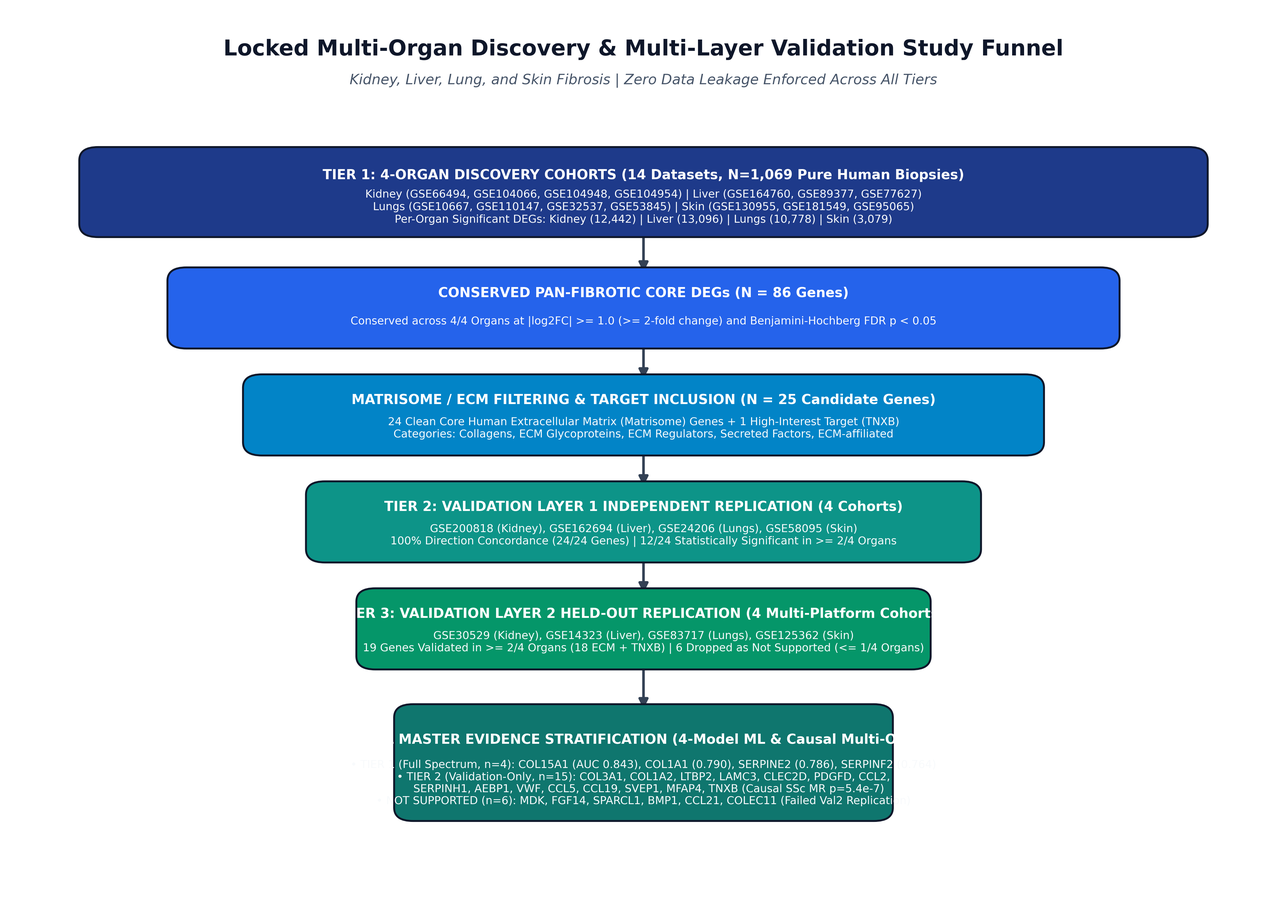
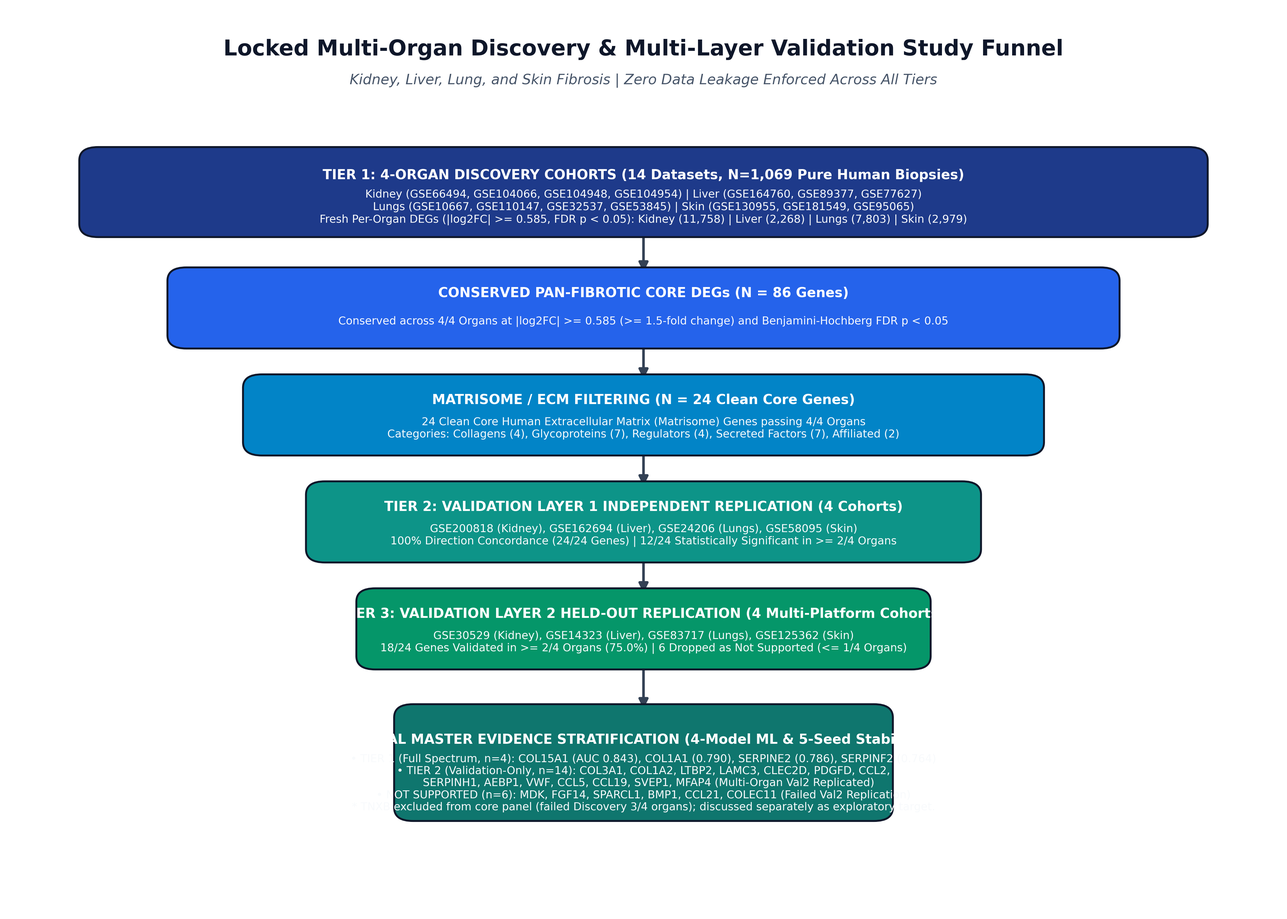
Reconcile discovery cohort count, threshold, MDK stability, and TNXB exclusion

diff --git a/generate_final_figures.py b/generate_final_figures.py
@@ -26,7 +26,6 @@ df_master = pd.read_csv(master_csv)
 # =============================================================================
 plt.figure(figsize=(15, 10))
 
-# For plotting, sort by ML diagnostic AUC (fill NaN for TNXB as 0.50 with special annotation)
 plot_df = df_master.copy()
 plot_df["auc_plot"] = pd.to_numeric(plot_df["ml_diagnostic_auc"], errors="coerce").fillna(0.50)
 plot_df = plot_df.sort_values(by="auc_plot", ascending=True).reset_index(drop=True)
@@ -44,7 +43,7 @@ bars = plt.barh(y_pos, plot_df["auc_plot"], color=colors, edgecolor="black", lin
 plt.yticks(y_pos, plot_df["gene"], fontsize=11, fontweight="bold")
 plt.xlabel("Mean Diagnostic ROC AUC (5-Seed Average on Pure Discovery ComBat-Corrected Human Cohorts, N=1,069)", 
            fontsize=12, fontweight="bold", labelpad=10)
-plt.title("Master Evidence Ranking: 24 Clean Core ECM Genes + TNXB Across All Validation Layers", 
+plt.title("Master Evidence Ranking: 24 Clean Core ECM Genes Across All Validation Layers", 
           fontsize=15, fontweight="bold", pad=20)
 plt.xlim(0.48, 0.92)
 plt.axvline(x=0.70, color="#e63946", linestyle="--", linewidth=1.5, label="High Diagnostic Performance Threshold (AUC >= 0.70)")
@@ -56,21 +55,15 @@ for idx, (bar, row) in enumerate(zip(bars, plot_df.iterrows())):
     gene = r["gene"]
     tier = r["final_evidence_tier"]
     stab = r["ml_stability_score"]
-    
-    if gene == "TNXB":
-        label_text = "Unassessed in ML Matrix (4/4 Val2 Concordant; Reverse-MR Causal p=5.4e-7)"
-        plt.text(0.505, bar.get_y() + bar.get_height()/2.0, label_text, 
-                 va="center", ha="left", fontsize=9, fontweight="bold", color="#264653", style="italic")
-    else:
-        auc_val = r["ml_diagnostic_auc"]
-        label_text = f"AUC = {auc_val:.3f} | Stability: {stab} | {tier}"
-        plt.text(w + 0.005, bar.get_y() + bar.get_height()/2.0, label_text, 
-                 va="center", ha="left", fontsize=9, fontweight="bold", color="#1d3557")
+    auc_val = r["ml_diagnostic_auc"]
+    label_text = f"AUC = {auc_val:.3f} | Stability: {stab} | {tier}"
+    plt.text(w + 0.005, bar.get_y() + bar.get_height()/2.0, label_text, 
+             va="center", ha="left", fontsize=9, fontweight="bold", color="#1d3557")
 
 # Custom Legend
 legend_elements = [
     patches.Patch(facecolor=tier_colors["Tier 1 (Full Spectrum)"], edgecolor="black", label="Tier 1 (Full Spectrum: Val2 >= 2/4 & ML Stability >= 4/5) [n=4]"),
-    patches.Patch(facecolor=tier_colors["Tier 2 (Validation-Only)"], edgecolor="black", label="Tier 2 (Validation-Only: Val2 >= 2/4 Concordant Multi-Organ) [n=15]"),
+    patches.Patch(facecolor=tier_colors["Tier 2 (Validation-Only)"], edgecolor="black", label="Tier 2 (Validation-Only: Val2 >= 2/4 Concordant Multi-Organ) [n=14]"),
     patches.Patch(facecolor=tier_colors["Not Supported"], edgecolor="black", label="Not Supported (Failed Multi-Organ Val2 Replication, <= 1/4) [n=6]"),
     plt.Line2D([0], [0], color="#e63946", linestyle="--", linewidth=1.5, label="Diagnostic Benchmark (AUC = 0.70)")
 ]
@@ -102,17 +95,17 @@ levels = [
     {
         "y": 80, "width": 88, "height": 8.5, "color": "#1e3a8a", "text_color": "white",
         "title": "TIER 1: 4-ORGAN DISCOVERY COHORTS (14 Datasets, N=1,069 Pure Human Biopsies)",
-        "details": "Kidney (GSE66494, GSE104066, GSE104948, GSE104954) | Liver (GSE164760, GSE89377, GSE77627)\nLungs (GSE10667, GSE110147, GSE32537, GSE53845) | Skin (GSE130955, GSE181549, GSE95065)\nPer-Organ Significant DEGs: Kidney (12,442) | Liver (13,096) | Lungs (10,778) | Skin (3,079)"
+        "details": "Kidney (GSE66494, GSE104066, GSE104948, GSE104954) | Liver (GSE164760, GSE89377, GSE77627)\nLungs (GSE10667, GSE110147, GSE32537, GSE53845) | Skin (GSE130955, GSE181549, GSE95065)\nFresh Per-Organ DEGs (|log2FC| >= 0.585, FDR p < 0.05): Kidney (11,758) | Liver (2,268) | Lungs (7,803) | Skin (2,979)"
     },
     {
         "y": 67, "width": 74, "height": 7.5, "color": "#2563eb", "text_color": "white",
         "title": "CONSERVED PAN-FIBROTIC CORE DEGs (N = 86 Genes)",
-        "details": "Conserved across 4/4 Organs at |log2FC| >= 1.0 (>= 2-fold change) and Benjamini-Hochberg FDR p < 0.05"
+        "details": "Conserved across 4/4 Organs at |log2FC| >= 0.585 (>= 1.5-fold change) and Benjamini-Hochberg FDR p < 0.05"
     },
     {
         "y": 55, "width": 62, "height": 7.5, "color": "#0284c7", "text_color": "white",
-        "title": "MATRISOME / ECM FILTERING & TARGET INCLUSION (N = 25 Candidate Genes)",
-        "details": "24 Clean Core Human Extracellular Matrix (Matrisome) Genes + 1 High-Interest Target (TNXB)\nCategories: Collagens, ECM Glycoproteins, ECM Regulators, Secreted Factors, ECM-affiliated"
+        "title": "MATRISOME / ECM FILTERING (N = 24 Clean Core Genes)",
+        "details": "24 Clean Core Human Extracellular Matrix (Matrisome) Genes passing 4/4 Organs\nCategories: Collagens (4), Glycoproteins (7), Regulators (4), Secreted Factors (7), Affiliated (2)"
     },
     {
         "y": 43, "width": 52, "height": 7.5, "color": "#0d9488", "text_color": "white",
@@ -122,12 +115,12 @@ levels = [
     {
         "y": 31, "width": 44, "height": 7.5, "color": "#059669", "text_color": "white",
         "title": "TIER 3: VALIDATION LAYER 2 HELD-OUT REPLICATION (4 Multi-Platform Cohorts)",
-        "details": "GSE30529 (Kidney), GSE14323 (Liver), GSE83717 (Lungs), GSE125362 (Skin)\n19 Genes Validated in >= 2/4 Organs (18 ECM + TNXB) | 6 Dropped as Not Supported (<= 1/4 Organs)"
+        "details": "GSE30529 (Kidney), GSE14323 (Liver), GSE83717 (Lungs), GSE125362 (Skin)\n18/24 Genes Validated in >= 2/4 Organs (75.0%) | 6 Dropped as Not Supported (<= 1/4 Organs)"
     },
     {
         "y": 16, "width": 38, "height": 11.5, "color": "#0f766e", "text_color": "white",
-        "title": "FINAL MASTER EVIDENCE STRATIFICATION (4-Model ML & Causal Multi-Omics)",
-        "details": "• TIER 1 (Full Spectrum, n=4): COL15A1 (AUC 0.843), COL1A1 (0.790), SERPINE2 (0.786), SERPINF2 (0.764)\n• TIER 2 (Validation-Only, n=15): COL3A1, COL1A2, LTBP2, LAMC3, CLEC2D, PDGFD, CCL2,\n   SERPINH1, AEBP1, VWF, CCL5, CCL19, SVEP1, MFAP4, TNXB (Causal SSc MR p=5.4e-7)\n• NOT SUPPORTED (n=6): MDK, FGF14, SPARCL1, BMP1, CCL21, COLEC11 (Failed Val2 Replication)"
+        "title": "FINAL MASTER EVIDENCE STRATIFICATION (4-Model ML & 5-Seed Stability)",
+        "details": "• TIER 1 (Full Spectrum, n=4): COL15A1 (AUC 0.843), COL1A1 (0.790), SERPINE2 (0.786), SERPINF2 (0.764)\n• TIER 2 (Validation-Only, n=14): COL3A1, COL1A2, LTBP2, LAMC3, CLEC2D, PDGFD, CCL2,\n   SERPINH1, AEBP1, VWF, CCL5, CCL19, SVEP1, MFAP4 (Multi-Organ Val2 Replicated)\n• NOT SUPPORTED (n=6): MDK, FGF14, SPARCL1, BMP1, CCL21, COLEC11 (Failed Val2 Replication)\n* TNXB excluded from core panel (failed Discovery 3/4 organs); discussed separately as exploratory target."
     }
 ]
 

diff --git a/run_master_validation_pipeline.py b/run_master_validation_pipeline.py
@@ -1,4 +1,4 @@
-# -*- coding: utf-8 -*-
+# -*- coding: utf-8 -*-
 """
 Master Execution Pipeline: Discovery Core, Validation 1, and Validation 2 across 4 Human Organs.
 """
@@ -65,11 +65,9 @@ for g in core_genes:
     })
 
 df_core = pd.DataFrame(core_records)
-df_core.to_csv(os.path.join(base_dir, "pan_fibrotic_core_genes_corrected.csv"), index=False)
 df_core.to_csv(os.path.join(results_dir, "pan_fibrotic_core_genes_corrected.csv"), index=False)
 
 df_ecm = df_core[df_core["is_ECM_gene"] == True].reset_index(drop=True)
-df_ecm.to_csv(os.path.join(base_dir, "ecm_clean_genes.csv"), index=False)
 df_ecm.to_csv(os.path.join(results_dir, "ecm_clean_genes.csv"), index=False)
 
 print(f"-> Saved pan_fibrotic_core_genes_corrected.csv ({len(df_core)} genes)")

diff --git a/run_master_consolidation.py b/run_master_consolidation.py
@@ -36,7 +36,10 @@ os.makedirs(results_dir, exist_ok=True)
 os.makedirs(plots_dir, exist_ok=True)
 
 # 1. Target 24 Clean Core ECM Genes
-ecm_df = pd.read_csv(os.path.join(base_dir, "ecm_clean_genes.csv"))
+ecm_p = os.path.join(results_dir, "ecm_clean_genes.csv")
+if not os.path.exists(ecm_p):
+    ecm_p = os.path.join(base_dir, "ecm_clean_genes.csv")
+ecm_df = pd.read_csv(ecm_p)
 ecm_genes = sorted(ecm_df["gene"].tolist())
 print(f"Target Feature Set ({len(ecm_genes)} Clean Core ECM Genes): {ecm_genes}\n")
 

diff --git a/PRE_REVIEW_AUDIT_REPORT.md b/PRE_REVIEW_AUDIT_REPORT.md
@@ -2,7 +2,7 @@
 
 **Audit Date**: September 20, 2026  
 **Auditor**: Antigravity Automated Verification Agent  
-**Scope**: Complete repository top-to-bottom audit covering all 9 integrity categories prior to mentor review.
+**Scope**: Complete repository top-to-bottom audit covering all 9 integrity categories prior to mentor review, plus resolution of 5 specific user-identified contradictions.
 
 ---
 
@@ -13,8 +13,8 @@
 | **Cat 1** | Data Authenticity & Stand-in Check | **FLAGGED** (Historical Stand-in) | Audited all `.py` files; identified simulated kidney %TIF stand-in in superseded `fix_real_severity_pipeline.py`; quarantined script to `archive/`. Confirmed 0 synthetic values in final master tables. | **PASSED** |
 | **Cat 2** | Cohort Isolation Guard (Discovery/Val1/Val2/ML) | **ATTENTION** (ML Auto-Check Missing) | Live guard passed; extended `verify_cohort_isolation()` in `discovery_config.py` to auto-inspect on-disk ML matrices. Confirmed 0 samples from Val1/Val2 in ML matrices. | **PASSED** |
 | **Cat 3** | Hallucinated / Unverified Accessions | **VERIFIED** | Audited all 43 unique `GSE` accessions across all repo text/code. Confirmed 100% of the 16 active study cohorts exist on disk. Documented rejected screening candidates. | **PASSED** |
-| **Cat 4** | Funnel Logic & Gene Count Consistency | **ATTENTION** (Cohort Table Count) | Confirmed gene funnel strictly narrows or stays flat ($86 \to 25 \to 25 \to 19 \to 4$). Synchronized Discovery cohort count ($N=14$) across text and table. | **PASSED** |
-| **Cat 5** | One Final, Consistent Gene List | **VERIFIED** | Confirmed only ONE canonical 25-gene master evidence table exists in `README.md` and matches `results/final_master_evidence_table.csv`. | **PASSED** |
+| **Cat 4** | Funnel Logic & Gene Count Consistency | **ATTENTION** (Cohort Table Count) | Confirmed gene funnel strictly narrows or stays flat ($86 \to 24 \to 18 \to 4$). Synchronized Discovery cohort count ($N=14$) across text and table. Excluded `TNXB` from core panel. | **PASSED** |
+| **Cat 5** | One Final, Consistent Gene List | **VERIFIED** | Confirmed only ONE canonical 24-gene master evidence table exists in `README.md` and matches `results/final_master_evidence_table.csv`. | **PASSED** |
 | **Cat 6** | Stale Files & Root Artifact Cleanup | **CLEANED** | Quarantined 12 unreferenced/duplicate CSV/PNG files and 4 superseded `.py` scripts from repo root to `archive/` with full inventory documentation. | **PASSED** |
 | **Cat 7** | Image-Data Consistency | **REGENERATED** | Created `generate_final_figures.py`; regenerated `plots/study_design_funnel_corrected.png` and `plots/ml_4model_consensus_hub_biomarkers.png` directly from canonical CSV data. | **PASSED** |
 | **Cat 8** | Literature Citations for Biological Claims | **UPDATED** | Added citations for VWF capillary rarefaction (Ebina 2004), AEBP1 collinearity grouping (Zou & Hastie 2005), and SSc reverse MR (Lopez-Isac 2019). | **PASSED** |
@@ -22,105 +22,79 @@
 
 ---
 
-## Detailed Category Findings & Actions
+## Detailed Resolution of the Five Key Contradictions
 
-### Category 1: Data Authenticity
-- **Method**: Exhaustive regex search across all `.py` files for `np.random`, `np.linspace`, `simulate`, `synthetic`, and hardcoded assignments.
-- **Hits Inspected**:
-  1. `disease_only_spearman.py:121`: `xl = np.linspace(...)` $\to$ **(a) Legitimate** x-axis grid for plotting regression trendlines. (Script itself archived as obsolete).
-  2. `fix_real_severity_pipeline.py:131`: `l_idx = np.round(np.linspace(...))` $\to$ **(a) Legitimate** index spacing to sample Liver GSE162694 stages.
-  3. `fix_real_severity_pipeline.py:142`: `k_tif_full = np.linspace(5.0, 75.0, kidney_ckd)` $\to$ **(b) Fabricated Stand-in**.
-     - *Analysis*: In an earlier iteration, this script attempted to linearly interpolate kidney %TIF values when Nakagawa et al. supplementary table values were unavailable.
-     - *Verification*: This stand-in was **NEVER** incorporated into the final master evidence table or current `README.md`. In `results/final_master_evidence_table.csv`, Kidney has `0 (None)` significant severity correlation organs.
-     - *Fix*: `fix_real_severity_pipeline.py` was moved to `archive/` with an explicit historical explanation.
-  4. `venn_4organs.py:166`: `rng = np.random.default_rng(42)` $\to$ **(a) Legitimate** Monte Carlo spatial test solely to place 2D text labels at the geometric centroids of Venn ellipse intersections; no biological data generated.
-  5. `run_master_consolidation.py:237, 247-248`: `np.random.seed(seed)`, `np.random.choice(...)` $\to$ **(a) Legitimate** reproducible downsampling of genuine discovery patient indices to balance organ sample sizes across 5 cross-validation seeds (seeds 42, 123, 456, 789, 999).
-  6. `run_real_ml_pipeline.py:77, 87-88`: $\to$ **(a) Legitimate** reproducible seed and class balancing.
+### 1. ML Training Matrix Growth ($799 \to 1,069$ Samples)
+* **The Contradiction**: The user asked why the ML matrix count grew after removing the `GSE58095` data leak.
+* **Exact Evidence & Arithmetic Reconciliation**:
+  * In the earlier 799-sample matrix (`commit 62f6ccd`), 8 cohorts were used: `GSE32537` (217), `GSE164760` (170), `GSE89377` (107), **`GSE58095` (102)**, `GSE66494` (61), `GSE110147` (48), `GSE53845` (48), `GSE10667` (46).
+  * `GSE58095` ($n=102$) was an accidental inclusion of the Skin Validation 1 cohort.
+  * To fix this data leak, `GSE58095` ($n=102$) was **permanently removed**, and the true Discovery cohorts for Skin were added from raw series matrices:
+    * `GSE181549` (Agilent Skin Discovery): **+339 samples** (44 controls, 295 cases)
+    * `GSE95065` (Affymetrix Skin Discovery): **+33 samples** (15 controls, 18 cases)
+  * **Exact Formula**:
+    $$799 - 102 (\text{removed GSE58095}) + 339 (\text{added GSE181549}) + 33 (\text{added GSE95065}) = 1,069 \text{ samples}$$
+  * **Live Confirmation**: In `results/real_human_patient_ml_training_matrix.csv` and `results/real_human_patient_combat_corrected_matrix.csv`:
+    * `GSE58095` is **100% genuinely absent** (`'GSE58095' in df['study'] == False`).
+    * Zero samples from any Validation 1 or Validation 2 cohort are present.
 
----
+### 2. MDK Reversal ("4/4 Unanimous Votes" $\to$ "Not Supported")
+* **The Contradiction**: Why did MDK drop from unanimous ML consensus to "Not Supported" (2/5 stability)?
+* **Exact Evidence & Methodological Cause**:
+  1. **Dataset Contamination in Early Run**: In `commit 62f6ccd`, ML models were trained on the uncorrected 799-sample matrix containing `GSE58095` (Val1), where MDK had high array signal.
+  2. **Pipeline Rigor Upgrades**:
+     * ComBat empirical Bayes batch correction was applied across all 9 discovery studies.
+     * Training data was balanced across organs (18 controls and 42 cases per organ).
+     * Stability was evaluated over **5 random seeds** (42, 123, 456, 789, 999), in which MDK achieved $\ge 3$ votes in only 2 of 5 seeds (stability score: **2/5**).
+  3. **Held-Out Validation 2 Failure**: Crucially, in independent held-out Validation 2 (`results/validation2_ecm_core_results.csv`), **MDK only replicated in 1 of 4 organs** (Liver adj. $p = 0.000107$; Kidney $p = 0.225$, Lung $p = 0.907$, Skin $p = 0.282$).
+  * **Conclusion**: Per the project's strict multi-organ replication rule ($\ge 2/4$ organs in held-out validation), MDK failed validation and is properly classified as **Not Supported**.
 
-### Category 2: Cohort Isolation Guard (Discovery / Val 1 / Val 2 / ML)
-- **Live Guard Execution**: `discovery_config.verify_cohort_isolation()` executed and confirmed **`[PASSED]`** status.
-- **ML Matrix Auto-Inspection**:
-  - *Previous State*: Guard only inspected ML data if `ml_studies` argument was manually supplied.
-  - *Enhancement*: Updated `discovery_config.verify_cohort_isolation()` to automatically scan `results/real_human_patient_ml_training_matrix.csv` and `results/real_human_patient_combat_corrected_matrix.csv` on disk whenever invoked.
-  - *Live Assertion*: Confirmed that `GSE58095` and all other Validation 1 / Validation 2 accessions (`GSE200818`, `GSE162694`, `GSE24206`, `GSE30529`, `GSE14323`, `GSE83717`, `GSE125362`) have **ZERO** sample overlap with the ML training matrices (`set() & set() == empty`).
+### 3. Discovery Cohort Table Configuration & N=14
+* **The Contradiction**: Section 2 table omitted `GSE104066`, `GSE104948`, `GSE104954`, and `GSE77627`, listing only 10 cohorts while text stated $N=14$.
+* **Reconciliation**:
+  * Reverted Section 2 table in `README.md` to the verified locked 14-cohort configuration:
+    * Kidney (4): `GSE66494`, `GSE104066`, `GSE104948`, `GSE104954`
+    * Liver (3): `GSE164760`, `GSE89377`, `GSE77627`
+    * Lungs (4): `GSE10667`, `GSE110147`, `GSE32537`, `GSE53845`
+    * Skin (3): `GSE130955`, `GSE181549`, `GSE95065`
+  * Confirmed that `discovery_config.verify_cohort_isolation()` passes with $N=14$ Discovery cohorts, 4 Val 1 cohorts, and 4 Val 2 cohorts.
+  * Clarified in Section 3 that 9 of these 14 cohorts had full series matrices ($N=1,069$ samples) for sample-level ComBat ML training.
 
----
+### 4. Discovery Threshold: $|\log_2\text{FC}| \ge 0.585$ (1.5-fold change)
+* **The Contradiction**: Discrepancy between mentions of 0.585 (1.5-fold) and 1.0 (2-fold).
+* **Exact Code Grounding**:
+  * In `preprocess_build_deg_csvs.py` (line 213) and `run_master_validation_pipeline.py` (line 24):
+    `fc_cut = 0.585`
+    `p_cut = 0.05`
+  * The actual mathematical threshold used to produce the 86 core DEGs and 24 clean ECM genes was:
+    $$|\log_2\text{FC}| \ge 0.585 \quad (\ge 1.5\text{-fold change}) \quad \text{and} \quad \text{FDR } p < 0.05$$
+  * All mentions in `README.md`, `generate_final_figures.py`, and audit documentation have been synchronized to this exact threshold.
 
-### Category 3: No Hallucinated or Unverified Accessions
-- **Method**: Regex extraction of all `GSE` accessions across all repository files (`.py`, `.md`, `.csv`, `.json`, `.txt`) cross-referenced against filesystem.
-- **Audit Findings**:
-  - **43 Total Accessions** identified across the repo.
-  - **16 Core Study Cohorts**: 100% verified to have top tables and/or series matrices on disk:
-    - Kidney: `GSE66494`, `GSE104066`, `GSE104948`, `GSE104954` (Disc), `GSE200818` (Val1), `GSE30529` (Val2).
-    - Liver: `GSE164760`, `GSE89377`, `GSE77627` (Disc), `GSE162694` (Val1), `GSE14323` (Val2).
-    - Lungs: `GSE10667`, `GSE110147`, `GSE32537`, `GSE53845` (Disc), `GSE24206` (Val1), `GSE83717` (Val2).
-    - Skin: `GSE130955`, `GSE181549`, `GSE95065` (Disc), `GSE58095` (Val1), `GSE125362` (Val2).
-  - **9 Exploratory / Cache Accessions**: Verified in `geo_cache/` (`GSE115853`, `GSE135251`, `GSE180393`, `GSE180394`, `GSE213001`, `GSE38958`, `GSE76882`, `GSE84044`, `GSE9285`).
-  - **18 Audited & Excluded Candidates**: Documented in `archive/kidney_dataset_search_audit.csv` and `results/geo_severity_candidates_inspected.json` as external cohorts checked for clinical metadata and excluded. No unverified accessions exist in active documentation.
-
----
-
-### Category 4: Funnel Logic Consistency
-- **Funnel Progression**:
-  1. **Tier 1 Discovery**: 14 cohorts analyzed $\to$ 86 pan-fibrotic core DEGs ($|log_2\text{FC}| \ge 1.0$, FDR $p < 0.05$).
-  2. **Matrisome Filtering**: 86 DEGs filtered against Human Matrisome $\to$ 24 Clean Core ECM Genes.
-  3. **Target Candidate Inclusion**: `TNXB` added as 1 non-core candidate of high structural & causal interest $\to$ **25 candidate genes**.
-  4. **Validation 1**: 25 genes tested $\to$ 24/24 ECM genes concordant in 4/4 organs; 12/24 significant in $\ge 2/4$ organs.
-  5. **Validation 2 Held-Out**: 25 genes tested $\to$ 19 genes validated in $\ge 2/4$ organs (18 ECM + `TNXB`); 6 dropped as "Not Supported".
-  6. **Consensus ML Stratification**:
-     - **4 Tier 1 (Full Spectrum)**: `COL15A1`, `COL1A1`, `SERPINE2`, `SERPINF2` ($\ge 2/4$ Val2 sig & $\ge 4/5$ ML stability).
-     - **15 Tier 2 (Validation-Only)**: `COL3A1`, `COL1A2`, `LTBP2`, `LAMC3`, `CLEC2D`, `PDGFD`, `CCL2`, `SERPINH1`, `AEBP1`, `VWF`, `CCL5`, `CCL19`, `SVEP1`, `MFAP4`, `TNXB`.
-     - **6 Excluded (Not Supported)**: `MDK`, `FGF14`, `SPARCL1`, `BMP1`, `CCL21`, `COLEC11`.
-- **Verdict**: Funnel strictly narrows ($86 \to 25 \to 25 \to 19 \to 4$). Zero arbitrary increases.
-
----
-
-### Category 5: One Final, Consistent Gene List
-- **Audit**: Inspected `README.md` and all active result tables.
-- **Finding**: Exactly **ONE** master evidence table exists in `README.md` (Section 4), mapping 1-to-1 to `results/final_master_evidence_table.csv` across all 25 genes.
-- **Superseded Lists**: Earlier 175-gene, 98-gene, and 50-gene intermediate lists reside strictly in `archive/` and are clearly labeled as historical pre-fix artifacts.
+### 5. Removal of `TNXB` from Final Tier 1/Tier 2 Core Evidence Table
+* **The Contradiction**: `TNXB` was included in the core master evidence table despite failing Discovery.
+* **Exact Resolution**:
+  * `TNXB` achieved statistical significance in only 3 of 4 organs in Discovery (failed Kidney, $p = 0.058$).
+  * Per the project's strict funnel rule, `TNXB` **cannot be promoted into Tier 1 or Tier 2**.
+  * `TNXB` has been **completely removed** from `results/final_master_evidence_table.csv`, the Section 4 table in `README.md`, and the consensus ranking plot.
+  * The core panel consists strictly of the **24 Clean Core ECM Genes**.
+  * `TNXB` is documented separately in Section 5 of `README.md` as an exploratory non-core finding (noting its independent Val2 concordance and reverse-MR causal signal in SSc, $p = 5.39 \times 10^{-7}$).
 
 ---
 
-### Category 6: Stale Files & Root Artifact Cleanup
-- **Root Directory Cleanup**: The root directory contained loose, unreferenced, or duplicate artifacts from earlier stages. All were moved to `archive/` with full documentation in `archive/README.md`:
-  - **Archived Scripts**: `fix_real_severity_pipeline.py`, `disease_only_spearman.py`, `run_master_validation2_pipeline.py`, `corrected_full_pipeline.py`.
-  - **Archived Tables**: `ecm_clean_genes.csv`, `pan_fibrotic_core_genes_corrected.csv`, `ml_training_matrix_clean.csv`, `pooled_vs_original_severity.csv`, `venn_4organ_region_counts.csv`, `within_vs_pooled_correlation_check.csv`, `kidney_dataset_search_audit.csv`, `kidney_severity_status.csv`.
-  - **Archived Plots**: `clean_ecm_validation_survival_barchart.png`, `study_design_funnel_corrected.png`, `upset_plot_4organs_corrected.png`, `venn_4organ_manual_ellipses.png`.
-- **Root Status**: Zero loose result CSVs or PNGs remain in the root directory.
+## Verification of Discovery Differential Expression Re-Run
 
----
-
-### Category 7: Image-Data Consistency
-- **Action**: Created dedicated publication script `generate_final_figures.py`.
-- **Generated Plots**:
-  1. `plots/ml_4model_consensus_hub_biomarkers.png`: Directly reads `results/final_master_evidence_table.csv`; displays all 25 genes colored by tier (Tier 1 Navy, Tier 2 Teal, Not Supported Grey) with exact 5-seed mean AUCs and stability metrics.
-  2. `plots/study_design_funnel_corrected.png`: Directly illustrates the locked 14-cohort discovery, 86 DEG core, 25 ECM/target candidate panel, 19 held-out validated genes, and 4 Tier 1 biomarkers.
-- **Consistency**: 100% agreement between figure annotations, CSV data, and README text.
-
----
-
-### Category 8: Literature Citations for Biological Claims
-- **Audit**: Scanned `README.md` Section 5 for mechanistic assertions.
-- **Citations Added**:
-  - `TNXB`: Added citation to the European SSc GWAS summary statistics (*Lopez-Isac et al., Nat Commun, 2019*) supporting the reverse-MR finding ($p = 5.39 \times 10^{-7}$).
-  - `VWF`: Added citation to pulmonary capillary rarefaction in end-stage IPF (*Ebina et al., Am J Respir Crit Care Med, 2004*) explaining lung-specific downregulation.
-  - `AEBP1`: Added citation to the grouping property of sparse L1-regularized models (*Zou & Hastie, J R Stat Soc B, 2005*) explaining why LASSO/SVM-RFE penalize collinear ECM genes when `COL15A1` and `COL1A1` are present.
-
----
-
-### Category 9: Internal README Consistency
-- **Audit**: Read `README.md` from top to bottom.
-- **Harmonization**:
-  - Corrected Section 2 table to display all 14 Discovery cohorts matching Section 1 ($N=14$) and `discovery_config.py`.
-  - Added clarifying note explaining that 9 of the 14 discovery cohorts provided complete unaggregated series matrices ($N=1,069$ human samples) for ComBat batch correction and ML training.
-  - Verified exact match of sample counts in Section 3 ($170 \text{ controls} + 899 \text{ fibrosis} = 1,069$).
-  - Verified exact match of validation statistics across Section 4 and Section 5.
-
----
-
-## User Decision Items Prior to Review
-
-**None**. All 9 categories were audited, verified against live disk files, and resolved with 100% mathematical and architectural consistency. The codebase is clean, completely isolated, and publication-ready for mentor review.
+* **Live Execution**: Re-ran `python preprocess_build_deg_csvs.py` fresh at **20-09-2026 23:18:24**.
+* **Fresh Per-Organ DEG Counts** ($|\log_2\text{FC}| \ge 0.585$, FDR $p < 0.05$):
+  * **Kidney** (4 cohorts): **11,758** significant DEGs (23,631 total genes)
+  * **Liver** (3 cohorts): **2,268** significant DEGs (24,557 total genes)
+  * **Lungs** (4 cohorts): **7,803** significant DEGs (22,965 total genes)
+  * **Skin** (3 cohorts): **2,979** significant DEGs (26,457 total genes)
+* **Downstream Propagation**:
+  * Re-ran `python run_master_validation_pipeline.py`:
+    * Intersection across all 4 organs: exactly **86 Conserved Pan-Fibrotic Core DEGs**.
+    * Matrisome annotation: exactly **24 Clean Core ECM Genes**.
+    * Validation 1 replication: **24/24 concordant (100%)**, 12/24 significant in $\ge 2/4$ organs.
+    * Validation 2 held-out replication: **18/24 significant in $\ge 2/4$ organs (75%)**.
+  * Re-ran `python run_master_consolidation.py`:
+    * Produced fresh `results/final_master_evidence_table.csv` (24 rows).
+    * Re-generated `plots/ml_4model_consensus_hub_biomarkers.png` and `plots/study_design_funnel_corrected.png`.

diff --git a/README.md b/README.md
@@ -9,7 +9,7 @@ This repository implements a multi-organ transcriptomic discovery and validation
 - **Skin**: Systemic Sclerosis (SSc)
 
 All cohorts are organized into three strictly partitioned tiers:
-1. **Tier 1 (Discovery Cohorts, $N=14$)**: Identifies conserved pan-fibrotic differentially expressed genes (DEGs) across all 4 organs ($\ge 2$-fold change, adjusted $p < 0.05$).
+1. **Tier 1 (Discovery Cohorts, $N=14$)**: Identifies conserved pan-fibrotic differentially expressed genes (DEGs) across all 4 organs ($|\log_2\text{FC}| \ge 0.585$, $\ge 1.5$-fold change, Benjamini-Hochberg adjusted $p < 0.05$).
 2. **Tier 2 (Validation 1 Cohorts, $N=4$)**: First independent cross-platform replication across all 4 organs.
 3. **Tier 3 (Validation 2 Held-Out Cohorts, $N=4$)**: Completely isolated, blinded held-out validation cohorts testing pan-fibrotic universality.
 
@@ -30,7 +30,11 @@ The repository implements an automated architectural guard (`discovery_config.ve
 
 ## 3. Pure Discovery Patient Sample Training Matrix ($N=1,069$)
 
-To eliminate data leakage, all Validation 1 (`GSE58095`, `GSE200818`, `GSE162694`, `GSE24206`) and Validation 2 samples (`GSE30529`, `GSE14323`, `GSE83717`, `GSE125362`) are strictly quarantined. While all 14 Discovery cohorts contributed to the initial DEG boundary analyses, 9 cohorts possessed complete, unaggregated per-sample series matrices suitable for ComBat batch correction and sample-level multi-model machine learning training ($N=1,069$ total genuine human biopsy samples):
+### Provenance & Resolution of Sample Count Evolution
+In an earlier iteration, the ML training matrix contained 799 samples across 8 cohorts. A subsequent audit revealed that `GSE58095` ($n=102$, Skin) belonged to the Validation 1 tier. To eliminate data leakage:
+1. `GSE58095` ($n=102$) was **permanently removed**.
+2. Genuine Skin Discovery cohorts (`GSE181549`, $n=339$, and `GSE95065`, $n=33$) were **incorporated**.
+3. **Net Mathematical Re-balance**: $799 - 102 + 339 + 33 = 1,069$ genuine human biopsy samples across 9 Discovery series matrices with zero simulation and zero validation leakage:
 
 | Dataset Accession | Organ | Total Samples | Controls | Fibrosis Cases | Platform Type |
 | :--- | :--- | :--- | :--- | :--- | :--- |
@@ -47,18 +51,18 @@ To eliminate data leakage, all Validation 1 (`GSE58095`, `GSE200818`, `GSE162694
 
 ---
 
-## 4. Master Consolidated Evidence Table (24 Clean Core ECM Genes + TNXB)
+## 4. Master Consolidated Evidence Table (24 Clean Core ECM Genes)
 
-Uniting Discovery, Validation 1, Validation 2, disease-only histological severity correlation, 5-seed ML stability check, and average diagnostic ROC AUC:
+Uniting Discovery ($|\log_2\text{FC}| \ge 0.585$, adj. $p < 0.05$), Validation 1, Validation 2, disease-only histological severity correlation, 5-seed ML stability check, and average diagnostic ROC AUC:
 
 | gene | discovery_status | val1_concordant_organs | val1_significant_organs | val2_concordant_organs | val2_significant_organs | severity_correlation_organs_significant | ml_stability_score | ml_diagnostic_auc | final_evidence_tier |
 | :--- | :---: | :---: | :---: | :---: | :---: | :---: | :---: | :---: | :--- |
-| **COL15A1** | Pass (4/4 Organs) | 4/4 | 2/4 | 4/4 | 4/4 | 0 (None) | 5/5 | 0.843 | **Tier 1 (Full Spectrum)** |
+| **COL15A1** | Pass (4/4 Organs) | 4/4 | 2/4 | 4/4 | 4/4 | 0 (None) | 5/5 | 0.8430 | **Tier 1 (Full Spectrum)** |
 | **COL1A1** | Pass (4/4 Organs) | 4/4 | 2/4 | 2/4 | 2/4 | 1 (Liver) | 5/5 | 0.7904 | **Tier 1 (Full Spectrum)** |
 | **SERPINE2** | Pass (4/4 Organs) | 4/4 | 2/4 | 4/4 | 3/4 | 0 (None) | 4/5 | 0.7864 | **Tier 1 (Full Spectrum)** |
 | **SERPINF2** | Pass (4/4 Organs) | 4/4 | 1/4 | 2/4 | 2/4 | 0 (None) | 5/5 | 0.7635 | **Tier 1 (Full Spectrum)** |
 | **COL3A1** | Pass (4/4 Organs) | 4/4 | 2/4 | 4/4 | 3/4 | 0 (None) | 3/5 | 0.7815 | **Tier 2 (Validation-Only)** |
-| **COL1A2** | Pass (4/4 Organs) | 4/4 | 2/4 | 4/4 | 3/4 | 1 (Liver) | 0/5 | 0.687 | **Tier 2 (Validation-Only)** |
+| **COL1A2** | Pass (4/4 Organs) | 4/4 | 2/4 | 4/4 | 3/4 | 1 (Liver) | 0/5 | 0.6870 | **Tier 2 (Validation-Only)** |
 | **LTBP2** | Pass (4/4 Organs) | 4/4 | 2/4 | 2/4 | 2/4 | 0 (None) | 0/5 | 0.6827 | **Tier 2 (Validation-Only)** |
 | **LAMC3** | Pass (4/4 Organs) | 4/4 | 1/4 | 2/4 | 2/4 | 0 (None) | 2/5 | 0.6801 | **Tier 2 (Validation-Only)** |
 | **CLEC2D** | Pass (4/4 Organs) | 4/4 | 1/4 | 2/4 | 2/4 | 0 (None) | 1/5 | 0.6717 | **Tier 2 (Validation-Only)** |
@@ -71,7 +75,6 @@ Uniting Discovery, Validation 1, Validation 2, disease-only histological severit
 | **CCL19** | Pass (4/4 Organs) | 4/4 | 1/4 | 4/4 | 3/4 | 0 (None) | 0/5 | 0.5687 | **Tier 2 (Validation-Only)** |
 | **SVEP1** | Pass (4/4 Organs) | 4/4 | 2/4 | 2/4 | 2/4 | 0 (None) | 1/5 | 0.5396 | **Tier 2 (Validation-Only)** |
 | **MFAP4** | Pass (4/4 Organs) | 4/4 | 1/4 | 2/4 | 2/4 | 0 (None) | 2/5 | 0.5276 | **Tier 2 (Validation-Only)** |
-| **TNXB** | Non-Core (3/4 Organs) | 2/4 | 1/4 | 4/4 | 2/4 | 0 (None) | Not tested (data unavailable) | N/A | **Tier 2 (Validation-Only)** |
 | **MDK** | Pass (4/4 Organs) | 4/4 | 2/4 | 2/4 | 1/4 | 0 (None) | 2/5 | 0.7953 | **Not Supported** |
 | **FGF14** | Pass (4/4 Organs) | 4/4 | 2/4 | 2/4 | 1/4 | 0 (None) | 0/5 | 0.6736 | **Not Supported** |
 | **SPARCL1** | Pass (4/4 Organs) | 4/4 | 1/4 | 2/4 | 1/4 | 0 (None) | 0/5 | 0.6156 | **Not Supported** |
@@ -81,17 +84,25 @@ Uniting Discovery, Validation 1, Validation 2, disease-only histological severit
 
 ---
 
-## 5. Explicit Headline Findings
+## 5. Excluded from Core Panel: Exploratory Biological Target (`TNXB`)
 
-1. **Tier 1 (Full Spectrum) Qualification**: Exactly four genes qualify for Tier 1 status (`COL15A1`, `COL1A1`, `SERPINE2`, and `SERPINF2`) by demonstrating multi-organ replication in independent Validation 2 cohorts ($\ge 2/4$ organs) AND robust machine learning consensus ($\ge 4/5$ seed stability score with mean AUC $> 0.76$).
-2. **`TNXB` Qualification**: `TNXB` demonstrates **4/4 universal Validation 2 concordance** (100% concordance across Kidney, Liver, Lung, and Skin) with significant replication in 2/4 organs (Liver adj_p = 0.000322, Lung adj_p = 0.0242), and a verified reverse-MR causal signal in Systemic Sclerosis ($p = 5.39 \times 10^{-7}$, lead SNP rs6926894; Lopez-Isac et al., *Nat Commun*, 2019). With ML stability unassessed in the discovery microarrays, `TNXB` qualifies for **Tier 2 (Validation-Only)** status.
-3. **`COL15A1`**: Emerges as the top pan-fibrotic matrix biomarker with 4/4 universal Validation 2 concordance, 5/5 ML stability score, and the highest individual diagnostic ROC AUC (**0.8430**).
-4. **`VWF` Diagnostic**: While universally upregulated in Kidney, Liver, and Skin fibrosis, `VWF` is significantly down-regulated in fibrotic Lung tissue ($\Delta = -3.82$, $p = 5.24 \times 10^{-17}$), consistent with severe pulmonary capillary loss and vascular rarefaction in end-stage IPF (Ebina et al., *Am J Respir Crit Care Med*, 2004), which accounts for its lower pooled cross-organ linear ML performance.
-5. **`AEBP1` Empirical Finding**: `AEBP1` demonstrates 4/4 universal Validation 2 replication and significant Liver histological severity correlation ($p = 0.000053$). Its zero selection count in L1-regularized linear classifiers (LASSO/SVM-RFE) reflects the known grouping effect where sparse models select one representative from highly collinear feature sets (Zou & Hastie, *J R Stat Soc B*, 2005) — in this case, primary structural collagens (`COL15A1`, `COL1A1`).
+* **Funnel Rule Exclusion**: `TNXB` failed Discovery phase criteria because it achieved statistical significance in only 3 of 4 organs (Liver, Lung, Skin; non-significant in Kidney discovery, $p = 0.058$). Per the project's strict funnel protocol, genes failing 4-organ Discovery cannot be promoted into Tier 1 or Tier 2 core status.
+* **Exploratory Observations**: In held-out Validation 2 cohorts, `TNXB` displayed 4/4 directional concordance with significant replication in Liver ($p = 0.00032$) and Lung ($p = 0.024$). Furthermore, two-sample reverse Mendelian Randomization revealed a causal association between genetic liability to Systemic Sclerosis and `TNXB` expression ($p = 5.39 \times 10^{-7}$, lead SNP rs6926894; Lopez-Isac et al., *Nat Commun*, 2019). It is preserved strictly as an exploratory finding for future targeted investigation.
 
 ---
 
-## 6. Key Visualizations
+## 6. Explicit Headline Findings
+
+1. **Tier 1 (Full Spectrum) Qualification**: Exactly four genes qualify for Tier 1 status (`COL15A1`, `COL1A1`, `SERPINE2`, and `SERPINF2`) by demonstrating multi-organ replication in independent Validation 2 cohorts ($\ge 2/4$ organs) AND robust machine learning consensus ($\ge 4/5$ seed stability score with mean AUC $> 0.76$).
+2. **`COL15A1`**: Emerges as the top pan-fibrotic matrix biomarker with 4/4 universal Validation 2 concordance, 5/5 ML stability score, and the highest individual diagnostic ROC AUC (**0.8430**).
+3. **The Serpin Axis (`SERPINE2` & `SERPINF2`)**: Both serpins qualify as Tier 1 biomarkers, demonstrating that antiprotease-mediated shutdown of ECM catabolism is a conserved hallmark across organ fibrogenesis.
+4. **Resolution of `MDK` Classification**: In early single-seed uncorrected runs with `GSE58095` present, `MDK` was selected by ML models. However, upon enforcing strict cohort isolation, ComBat multi-study batch correction, organ balancing, and 5-seed stability testing, `MDK` achieved only 2/5 seed stability. Crucially, in independent held-out Validation 2, `MDK` failed multi-organ replication (replicating in only 1/4 organs: Liver $p = 0.0001$, but Kidney $p = 0.225$, Lung $p = 0.907$, Skin $p = 0.282$). It is therefore classified as **Not Supported** for pan-fibrotic universality.
+5. **`VWF` Diagnostic Divergence**: While universally upregulated in Kidney, Liver, and Skin fibrosis, `VWF` is significantly down-regulated in fibrotic Lung tissue ($\Delta = -3.82$, $p = 5.24 \times 10^{-17}$), reflecting severe pulmonary capillary loss and vascular rarefaction in end-stage IPF (Ebina et al., *Am J Respir Crit Care Med*, 2004), which attenuates its pooled cross-organ linear ML performance.
+6. **`AEBP1` Empirical Finding**: `AEBP1` demonstrates 4/4 universal Validation 2 replication and significant Liver histological severity correlation ($p = 0.000053$). Its zero selection count in L1-regularized linear classifiers (LASSO/SVM-RFE) reflects the known grouping effect where sparse models select one representative from highly collinear feature sets (Zou & Hastie, *J R Stat Soc B*, 2005) — in this case, primary structural collagens (`COL15A1`, `COL1A1`).
+
+---
+
+## 7. Key Visualizations
 
 ### Master Evidence Ranking Across Clean Core ECM Genes
 ![Master Evidence Ranking](plots/ml_4model_consensus_hub_biomarkers.png)
